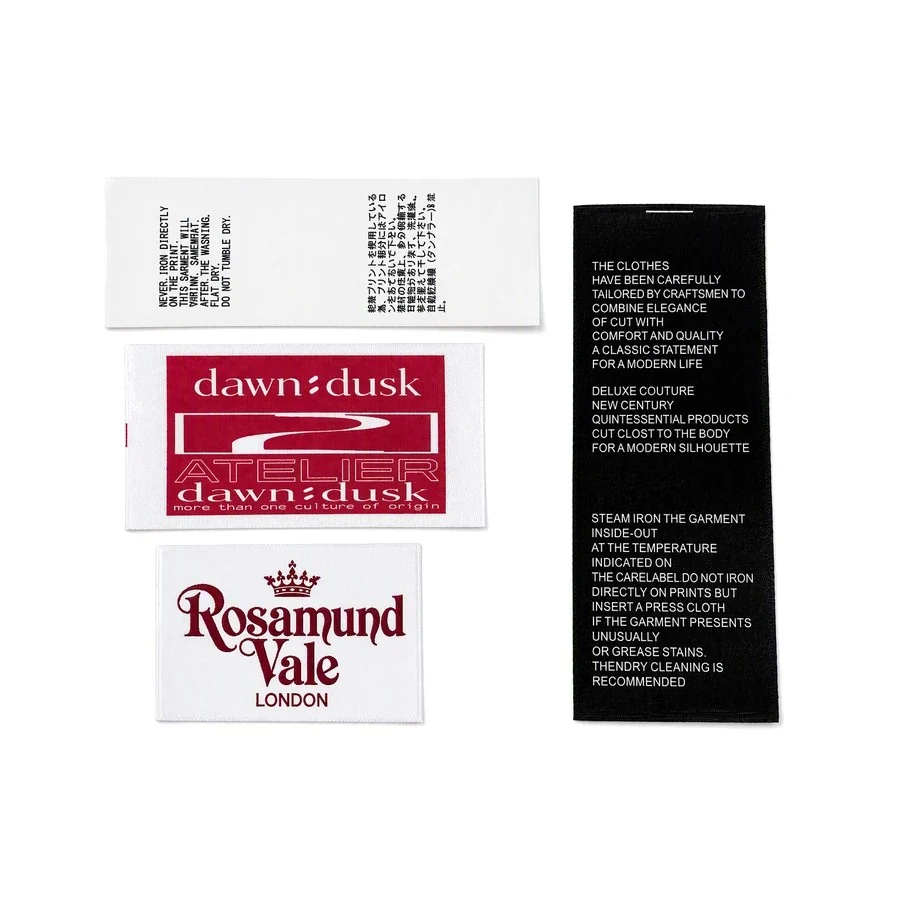
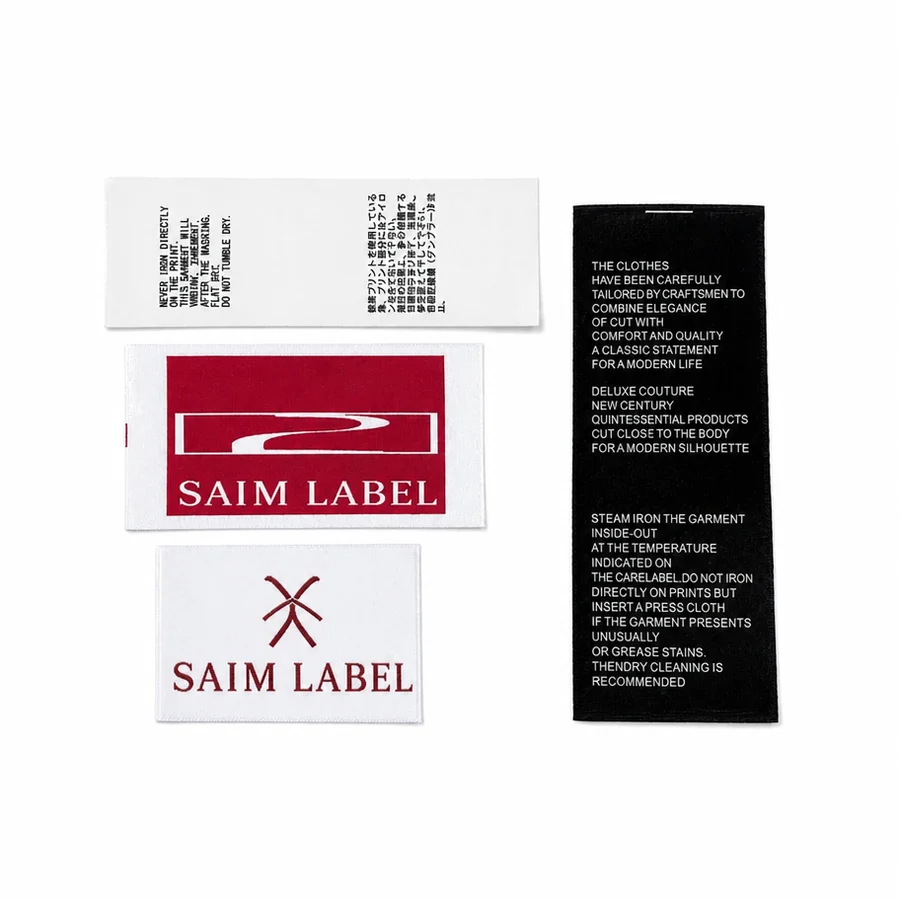
images: de-identify the five Main-products card images before first publish
The five card images are replaced with de-identified versions so that no third-party identity is
published. This commit sits on top of 79f28b8 (the raw photographs), which never reached origin -
it was never pushed, so it was never built or deployed, and those versions never appeared on the
live site.

WHAT CHANGED
Every third-party brand wordmark on the products was replaced with our own brand:
  - the care-label card: the two script wordmarks and their sub-lines -> SAIM LABEL
  - the embroidered-patch card: the drip-lettered wordmark -> SAIM LABEL
  - the woven-keychain card: the three wordmarks -> SAIM LABEL, the brush-character tag -> 赛铭
  - the woven-label card: the stylised, script, star-block and rainbow wordmarks -> SAIM LABEL,
    the four-character Chinese label -> 赛铭
  - the woven-patch card: the crest banners, the shield's two arc lines, the gothic wordmark,
    the resort name and the year -> SAIM LABEL and EST. 2020; the two small code boxes left plain

Every recognisable third-party character or figure artwork was replaced with an original, generic
motif: the four character patches (mascot, featureless cloud face, skull-in-barrel, fox) became a
diamond emblem, a featureless cloud, a plain barrel and a flame shape; the three keychain cats
became abstract colour-block geometry; the horse head in the crest shield became a plain
four-pointed star; the square patch's figure illustration became an abstract marbled swirl.

DELIBERATELY PRESERVED (verified)
[…]

diff --git a/index.html b/index.html
@@ -679,13 +679,13 @@ html{scroll-padding-top:88px}
   </div>
   <div class="grid g3">
     <article class="card rv"><span class="tag">Main product</span>
-      <div class="thumb"><img src="assets/img/card-woven-labels-v2.webp" alt="Custom woven labels in five brand styles — button, script, character, Chinese and rainbow motifs on pink, black, green, red and navy grounds" loading="lazy" decoding="async" width="900" height="900"></div>
+      <div class="thumb"><img src="assets/img/card-woven-labels-v2.webp" alt="Custom woven labels in five styles — button, script, animal, Chinese and rainbow treatments on pink, black, green and red grounds" loading="lazy" decoding="async" width="900" height="900"></div>
       <div class="pad"><h3><a href="/woven-labels/">Custom Woven Labels</a></h3>
         <p>Clean text, durable color, soft sewn-in brand finish — damask or satin, fold of your choice.</p>
         <div class="meta"><span class="price">from $0.20/pc<small>quoted by size &amp; qty</small></span><span class="go">Explore →</span></div></div>
     </article>
     <article class="card rv"><span class="tag">Main product</span>
-      <div class="thumb"><img src="assets/img/card-woven-patches-v2.webp" alt="Custom woven patches in four styles — a school crest, an airport fire rescue shield, a square character patch and a round travel badge" loading="lazy" decoding="async" width="900" height="900"></div>
+      <div class="thumb"><img src="assets/img/card-woven-patches-v2.webp" alt="Custom woven patches in four styles — a heraldic crest, a fire rescue shield, a square abstract patch and a round landscape badge" loading="lazy" decoding="async" width="900" height="900"></div>
       <div class="pad"><h3><a href="/woven-patches/">Custom Woven Patches</a></h3>
         <p>Design clarity over raised texture — small text, thin lines and gradients stay crisp.</p>
         <div class="meta"><span class="price">from $0.60/pc<small>quoted by size &amp; qty</small></span><span class="go">Explore →</span></div></div>
@@ -703,7 +703,7 @@ html{scroll-padding-top:88px}
         <div class="meta"><span class="price">from $0.20/pc<small>quoted by size &amp; qty</small></span><span class="go">Explore →</span></div></div>
     </article>
     <article class="card rv"><span class="tag green">Also in-house</span>
-      <div class="thumb"><img src="assets/img/card-emb-patches-v2.webp" alt="Custom embroidered patches in six pieces — a bear mascot, a fox, a cloud-shaped patch and a skull, plus ROAR and NOVA GREY text patches" loading="lazy" decoding="async" width="900" height="900"></div>
+      <div class="thumb"><img src="assets/img/card-emb-patches-v2.webp" alt="Custom embroidered patches in six pieces — a diamond emblem, a plain cloud patch, a barrel, a flame shape, plus ROAR and SAIM LABEL text patches" loading="lazy" decoding="async" width="900" height="900"></div>
       <div class="pad"><h3><a href="/embroidered-patches/">Custom Embroidery Patches</a></h3>
         <p>Raised 3D stitch texture for the classic badge feel — uniforms, club crests, caps and workwear.</p>
         <div class="meta"><span class="price">from $0.65/pc<small>quoted by size &amp; qty</small></span><span class="go">Explore →</span></div></div>
